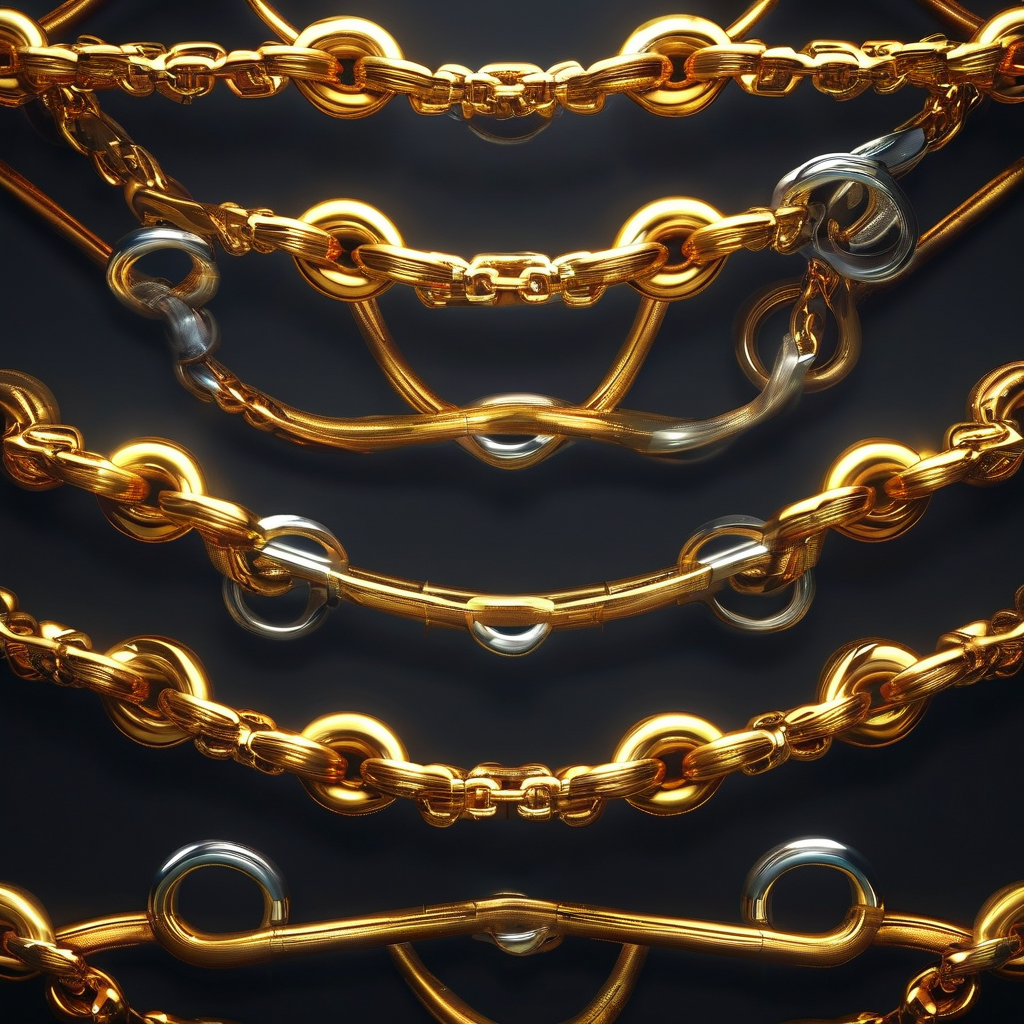
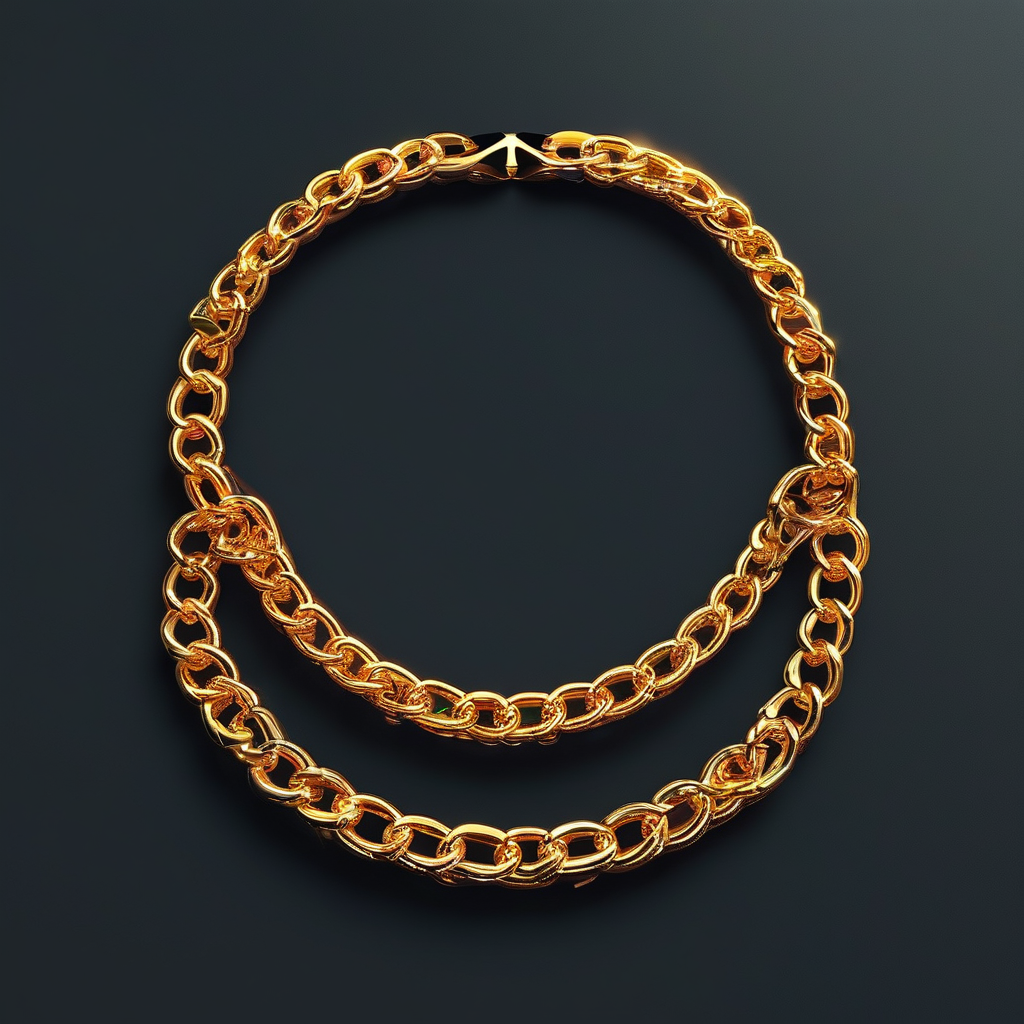
feat: 高逼格《真需求》深度拆解HTML - 31页完整版
深度解读《真需求》：
- 5轮圆桌讨论（价值/共识/模式/需求/终极追问）
- 4位思想者（芒格/老子/卡尼曼/刘润）
- 8张AI生成水墨风配图
- 每页独立背景图

设计升级：
- 暗色主题 + 金色点缀
- 毛笔字体（Ma Shan Zheng）
- 模糊背景效果（backdrop-filter）
- 翻页动画（scroll-snap）
- 进度条 + 页码

文件：
- output/zhenxuqiu_premium.html (14KB, 31页)
- output/assets/*.png (9张配图)

diff --git a/output/zhenxuqiu_premium.html b/output/zhenxuqiu_premium.html
@@ -1,0 +1,107 @@
+<!DOCTYPE html>
+<html lang="zh-CN">
+<head>
+<meta charset="UTF-8">
+<meta name="viewport" content="width=device-width, initial-scale=1.0">
+<title>真需求 - 深度拆解</title>
+<style>
+@import url('https://fonts.googleapis.com/css2?family=Noto+Serif+SC:wght@200;300;400;500;600;700;900&family=Inter:wght@300;400;500;600;700&display=swap');
+:root{--ink:#0A0A0A;--paper:#F5F0E8;--gold:#C9A96E;--gold-light:#E8D5A8;--gold-dark:#8B7355}
+*{margin:0;padding:0;box-sizing:border-box}
+body{background:var(--ink);color:var(--paper);font-family:'Noto Serif SC',serif;overflow:hidden;height:100vh}
+.progress{position:fixed;top:0;left:0;height:3px;background:linear-gradient(90deg,var(--gold),var(--gold-light),var(--gold));z-index:1000;transition:width .4s cubic-bezier(.25,.46,.45,.94)}
+.pageNum{position:fixed;bottom:2rem;right:3rem;font-family:'Inter',sans-serif;font-size:.8rem;color:var(--gold-dark);z-index:1000;letter-spacing:.2em}
+.deck{display:flex;width:100vw;height:100vh;overflow-x:auto;scroll-snap-type:x mandatory;scrollbar-width:none}
+.deck::-webkit-scrollbar{display:none}
+.page{flex:0 0 100vw;width:100vw;height:100vh;scroll-snap-align:start;display:flex;flex-direction:column;justify-content:center;align-items:center;padding:6rem 8rem;position:relative;overflow:hidden}
+.page::before{content:'';position:absolute;top:0;left:0;right:0;bottom:0;background-size:cover;background-position:center;opacity:.15;z-index:0}
+.page>*{position:relative;z-index:1}
+.cover{text-align:center}
+.cover::before{background:linear-gradient(135deg,rgba(10,10,10,.3),rgba(10,10,10,.5)),url('../assets/opening.png') center/cover}
+.cover-label{font-size:.75rem;letter-spacing:1em;color:var(--gold);margin-bottom:3rem;text-transform:uppercase}
+.cover-title{font-size:8rem;font-weight:900;color:var(--paper);line-height:1;margin-bottom:2rem;text-shadow:0 0 100px rgba(201,169,110,.3)}
+.cover-subtitle{font-family:'Inter',sans-serif;font-size:1.2rem;font-weight:300;color:var(--gold);margin-bottom:4rem;letter-spacing:.5em}
+.cover-line{width:80px;height:1px;background:var(--gold);margin:0 auto 2rem}
+.cover-author{font-size:.9rem;color:var(--gold-dark);letter-spacing:.3em}
+.chapter{text-align:center}
+.chapter-num{font-size:12rem;font-weight:200;color:rgba(201,169,110,.08);line-height:1;margin-bottom:-4rem}
+.chapter-title{font-size:3.5rem;font-weight:700;color:var(--paper);margin-bottom:1.5rem}
+.chapter-subtitle{font-size:1.1rem;color:var(--gold);max-width:500px;line-height:1.8}
+.debate{align-items:flex-start;padding:4rem 10rem}
+.debate::before{background:linear-gradient(135deg,rgba(10,10,10,.4),rgba(10,10,10,.6)),url('../assets/value.png') center/cover}
+.debate-header{display:flex;align-items:center;gap:1.5rem;margin-bottom:3rem;width:100%}
+.debate-line{flex:1;height:1px;background:linear-gradient(90deg,var(--gold),transparent)}
+.debate-round{font-family:'Inter',sans-serif;font-size:.75rem;color:var(--gold);letter-spacing:.5em;text-transform:uppercase}
+.speech{width:100%;padding:2.5rem 3rem;background:rgba(10,10,10,.6);backdrop-filter:blur(10px);border-left:2px solid var(--gold);margin-bottom:1.5rem}
+.speech-speaker{font-size:1.1rem;font-weight:700;color:var(--gold);margin-bottom:1rem;display:flex;align-items:center;gap:.8rem}
+.speech-speaker::before{content:'';width:8px;height:8px;background:var(--gold);border-radius:50%}
+.speech-text{font-size:1rem;line-height:2;color:var(--paper);opacity:.9}
+.insight{text-align:center}
+.insight::before{background:linear-gradient(135deg,rgba(10,10,10,.3),rgba(10,10,10,.5)),url('../assets/truth.png') center/cover}
+.insight-title{font-size:2.5rem;font-weight:700;color:var(--gold);margin-bottom:2rem}
+.insight-text{font-size:1.3rem;line-height:2;color:var(--paper);max-width:600px;font-style:italic}
+.quote-page{text-align:center}
+.quote-page::before{background:linear-gradient(135deg,rgba(10,10,10,.3),rgba(10,10,10,.5)),url('../assets/emotion.png') center/cover}
+.quote-mark{font-size:8rem;color:var(--gold);opacity:.2;line-height:1;margin-bottom:-2rem}
+.quote-text{font-size:1.8rem;line-height:2;color:var(--paper);max-width:700px;margin-bottom:2rem}
+.quote-author{font-size:.9rem;color:var(--gold);letter-spacing:.3em}
+.ending{text-align:center}
+.ending::before{background:linear-gradient(135deg,rgba(10,10,10,.3),rgba(10,10,10,.5)),url('../assets/bloom.png') center/cover}
+.ending-text{font-size:2rem;line-height:2.2;color:var(--paper);max-width:600px}
+.ending-highlight{color:var(--gold);font-weight:700;position:relative}
+.ending-highlight::after{content:'';position:absolute;bottom:-4px;left:0;width:100%;height:2px;background:var(--gold)}
+.ending-author{font-size:.9rem;color:var(--gold-dark);margin-top:3rem;letter-spacing:.3em}
+.formula{text-align:center}
+.formula::before{background:linear-gradient(135deg,rgba(10,10,10,.3),rgba(10,10,10,.5)),url('../assets/flow.png') center/cover}
+.formula-label{font-family:'Inter',sans-serif;font-size:.75rem;color:var(--gold);letter-spacing:.3em;text-transform:uppercase;margin-bottom:2rem}
+.formula-text{font-size:2.5rem;font-weight:700;color:var(--gold);margin-bottom:2rem}
+.formula-desc{font-size:1rem;line-height:2;color:var(--paper);max-width:600px;opacity:.8}
+</style>
+</head>
+<body>
+<div class="progress" id="progress"></div>
+<div class="pageNum" id="pageNum"></div>
+<div class="deck" id="deck">
+<div class="page cover"><div class="cover-label">深度拆解 · 梁宁</div><div class="cover-title">真需求</div><div class="cover-subtitle">商业世界的本质是什么？</div><div class="cover-line"></div><div class="cover-author">圆桌洞见 · 四位思想者</div></div>
+<div class="page insight"><div class="insight-title">核心命题</div><div class="insight-text">市场中的万物现出本相，无非世人的需求</div></div>
+<div class="page formula"><div class="formula-label">商业闭环模型</div><div class="formula-text">价值 → 共识 → 模式</div><div class="formula-desc">价值源自需求，因为被需求，所以有价值。<br>共识来自对分歧的超越，共识的成果是成交与关系。<br>模式是自己如何生存与发展。</div></div>
+<div class="page formula"><div class="formula-label">产品价值公式</div><div class="formula-text" style="font-size:1.8rem;">产品价值 = 功能价值 + 情绪价值 + 资产价值</div><div class="formula-desc">功能价值：解决具体问题<br>情绪价值：满足心理需求<br>资产价值：产生投资回报</div></div>
+<div class="page chapter"><div class="chapter-num">壹</div><div class="chapter-title">价值的本质</div><div class="chapter-subtitle">什么是真正的价值？</div></div>
+<div class="page debate"><div class="debate-header"><div class="debate-line"></div><div class="debate-round">第一轮 · 价值的本质</div><div class="debate-line"></div></div><div class="speech"><div class="speech-speaker">刘润</div><div class="speech-text">梁宁的产品价值公式很精炼。但我想用交易成本框架来重新解读。功能价值的本质是什么？是效率需求。用户为效率付费，是因为效率降低了交易成本。但这里有个悖论：当所有人的效率都提升时，效率本身就不值钱了。值钱的是效率之外的东西——判断力、关系、信任。</div></div></div>
+<div class="page debate"><div class="debate-header"><div class="debate-line"></div><div class="debate-round">第一轮 · 价值的本质</div><div class="debate-line"></div></div><div class="speech"><div class="speech-speaker">芒格</div><div class="speech-text">刘润说得对，但他的框架还不够完整。让我用多元思维模型来分析。功能价值的四个模型——原材料/劳动力、专利/IP、平台/供应链、基础设施——代表了四种不同的护城河。原材料模型最脆弱，专利模型最强。我投资苹果，就是因为苹果同时拥有专利/IP和品牌护城河。</div></div></div>
+<div class="page debate"><div class="debate-header"><div class="debate-line"></div><div class="debate-round">第一轮 · 价值的本质</div><div class="debate-line"></div></div><div class="speech"><div class="speech-speaker">卡尼曼</div><div class="speech-text">情绪价值=生理唤起+认知标记+心理账户。这个公式揭示了一个关键点：情绪价值是主观的。同样一块蛋糕，对小孩子的情绪价值是5分，对减肥女孩的情绪价值可能是-5分到5分之间。品牌本质上是在用户心中建立特定的认知标记。</div></div></div>
+<div class="page debate"><div class="debate-header"><div class="debate-line"></div><div class="debate-round">第一轮 · 价值的本质</div><div class="debate-line"></div></div><div class="speech"><div class="speech-speaker">老子</div><div class="speech-text">你们都在说如何创造价值，但我想问一个更根本的问题：价值是什么？我说道生一，一生二，二生三，三生万物。价值也是万物之一，是道的自我展开。功能价值是有，情绪价值是无。有无相生——两者相互依存。</div></div></div>
+<div class="page insight"><div class="insight-title">第一轮小结</div><div class="insight-text">价值不是客观存在的，而是主观感知的。</div></div>
+<div class="page chapter"><div class="chapter-num">贰</div><div class="chapter-title">共识的形成</div><div class="chapter-subtitle">从分歧到共识，需要经历什么？</div></div>
+<div class="page debate"><div class="debate-header"><div class="debate-line"></div><div class="debate-round">第二轮 · 共识的形成</div><div class="debate-line"></div></div><div class="speech"><div class="speech-speaker">卡尼曼</div><div class="speech-text">梁宁把分歧分为四种：感知的分歧、想象的分歧、场景的分歧、利益的分歧。这四种分歧，本质上都是认知偏差的体现。共识的形成，本质上是克服认知偏差的过程。但认知偏差是人类决策的底层机制，不可能完全克服。</div></div></div>
+<div class="page debate"><div class="debate-header"><div class="debate-line"></div><div class="debate-round">第二轮 · 共识的形成</div><div class="debate-line"></div></div><div class="speech"><div class="speech-speaker">芒格</div><div class="speech-text">共识的形成，不只是克服认知偏差，更是建立共同的思维模型。我投资苹果，不是因为财报好看，而是因为我理解乔布斯的思维模型。这种深层共识，才是真正的护城河。共识的本质不是同意，而是理解。</div></div></div>
+<div class="page debate"><div class="debate-header"><div class="debate-line"></div><div class="debate-round">第二轮 · 共识的形成</div><div class="debate-line"></div></div><div class="speech"><div class="speech-speaker">老子</div><div class="speech-text">你们都在说如何达成共识，但我想问：共识一定是好的吗？我说道法自然。最好的商业模式，不是通过共识形成的，而是顺应自然规律的。共识不是目的，而是手段。真正的目的是顺应规律。</div></div></div>
+<div class="page insight"><div class="insight-title">第二轮小结</div><div class="insight-text">共识不是目的，而是手段。真正的目的是顺应规律。</div></div>
+<div class="page chapter"><div class="chapter-num">叁</div><div class="chapter-title">模式的构建</div><div class="chapter-subtitle">企业如何生存与发展？</div></div>
+<div class="page debate"><div class="debate-header"><div class="debate-line"></div><div class="debate-round">第三轮 · 模式的构建</div><div class="debate-line"></div></div><div class="speech"><div class="speech-speaker">刘润</div><div class="speech-text">能力系统的本质是什么？是降低内部交易成本的能力。变现逻辑的本质是什么？是降低外部交易成本的能力。公司寿命=你解决的问题的持久性×你的商业模式的壁垒高度÷你的交易成本。</div></div></div>
+<div class="page debate"><div class="debate-header"><div class="debate-line"></div><div class="debate-round">第三轮 · 模式的构建</div><div class="debate-line"></div></div><div class="speech"><div class="speech-speaker">芒格</div><div class="speech-text">如何才能让一个企业死掉？很简单：解决一个不存在的问题，或者用错误的方式解决正确的问题。瑞幸的故事就是一个很好的例子。它用补贴换增长，而不是用价值换增长。</div></div></div>
+<div class="page debate"><div class="debate-header"><div class="debate-line"></div><div class="debate-round">第三轮 · 模式的构建</div><div class="debate-line"></div></div><div class="speech"><div class="speech-speaker">老子</div><div class="speech-text">商业模式是设计出来的，还是演化出来的？我说道法自然。最好的商业模式，不是设计出来的，而是顺应自然规律的。</div></div></div>
+<div class="page insight"><div class="insight-title">第三轮小结</div><div class="insight-text">商业模式不是设计出来的，而是演化出来的。</div></div>
+<div class="page chapter"><div class="chapter-num">肆</div><div class="chapter-title">需求的真相</div><div class="chapter-subtitle">什么是真需求？</div></div>
+<div class="page debate"><div class="debate-header"><div class="debate-line"></div><div class="debate-round">第四轮 · 需求的真相</div><div class="debate-line"></div></div><div class="speech"><div class="speech-speaker">芒格</div><div class="speech-text">真需求是那些不会消失的需求。人需要吃饭、穿衣、住所——这些是基础需求，永远不会消失。识别真需求的关键，是看这个需求是否会消失。</div></div></div>
+<div class="page debate"><div class="debate-header"><div class="debate-line"></div><div class="debate-round">第四轮 · 需求的真相</div><div class="debate-line"></div></div><div class="speech"><div class="speech-speaker">卡尼曼</div><div class="speech-text">真需求是系统2的产物——经过深思熟虑、理性分析后形成的需求。伪需求是系统1的产物——凭感觉、直觉形成的需求。</div></div></div>
+<div class="page debate"><div class="debate-header"><div class="debate-line"></div><div class="debate-round">第四轮 · 需求的真相</div><div class="debate-line"></div></div><div class="speech"><div class="speech-speaker">老子</div><div class="speech-text">真需求是被发现的，还是被创造的？真需求既是被发现的，也是被创造的。关键在于顺应规律。</div></div></div>
+<div class="page insight"><div class="insight-title">第四轮小结</div><div class="insight-text">真需求既是被发现的，也是被创造的。关键在于顺应规律。</div></div>
+<div class="page chapter"><div class="chapter-num">伍</div><div class="chapter-title">商业的终极追问</div><div class="chapter-subtitle">商业的终极价值是什么？</div></div>
+<div class="page debate"><div class="debate-header"><div class="debate-line"></div><div class="debate-round">第五轮 · 商业的终极追问</div><div class="debate-line"></div></div><div class="speech"><div class="speech-speaker">老子</div><div class="speech-text">梁宁在书的最后说：让生命绽放，让资源流动。这是商业的终极价值。当商业顺应规律时，生命就会绽放，资源就会流动。</div></div></div>
+<div class="page debate"><div class="debate-header"><div class="debate-line"></div><div class="debate-round">第五轮 · 商业的终极追问</div><div class="debate-line"></div></div><div class="speech"><div class="speech-speaker">芒格</div><div class="speech-text">商业的终极价值，是创造长期价值。那些只追求短期利润的企业，最终都会被淘汰。</div></div></div>
+<div class="page quote-page"><div class="quote-mark">"</div><div class="quote-text">一件事能成，是因为它本来就该成。</div><div class="quote-author">—— 梁宁《真需求》</div></div>
+<div class="page ending"><div class="ending-text">这个世界不是由生意构成的，<br>而是由<span class="ending-highlight">生命</span>构成的。<br><br>商业的终极价值，不是利润，<br>而是让<span class="ending-highlight">生命绽放</span>，<br>让<span class="ending-highlight">资源流动</span>。<br><br><em style="font-size:1.2rem;">这才是最美好的东西。</em></div><div class="ending-author">—— 梁宁《真需求》</div></div>
+</div>
+<script>
+const deck=document.getElementById('deck'),progress=document.getElementById('progress'),pageNum=document.getElementById('pageNum');
+const pages=document.querySelectorAll('.page'),total=pages.length;
+let currentIdx=0;
+function updateProgress(){const idx=Math.round(deck.scrollLeft/window.innerWidth);if(idx!==currentIdx){currentIdx=idx;progress.style.width=((idx+1)/total*100)+'%';pageNum.textContent=String(idx+1).padStart(2,'0')+' / '+String(total).padStart(2,'0')}}
+function scrollToPage(idx){if(idx<0||idx>=total)return;deck.scrollTo({left:idx*window.innerWidth,behavior:'smooth'})}
+document.addEventListener('keydown',e=>{if(e.key==='ArrowRight'||e.key===' ')scrollToPage(currentIdx+1);if(e.key==='ArrowLeft')scrollToPage(currentIdx-1)});
+let wheelTimer;deck.addEventListener('wheel',e=>{e.preventDefault();clearTimeout(wheelTimer);wheelTimer=setTimeout(()=>{e.deltaY>0?scrollToPage(currentIdx+1):scrollToPage(currentIdx-1)},80)},{passive:false});
+deck.addEventListener('scroll',updateProgress);updateProgress();
+</script>
+</body>
+</html>
